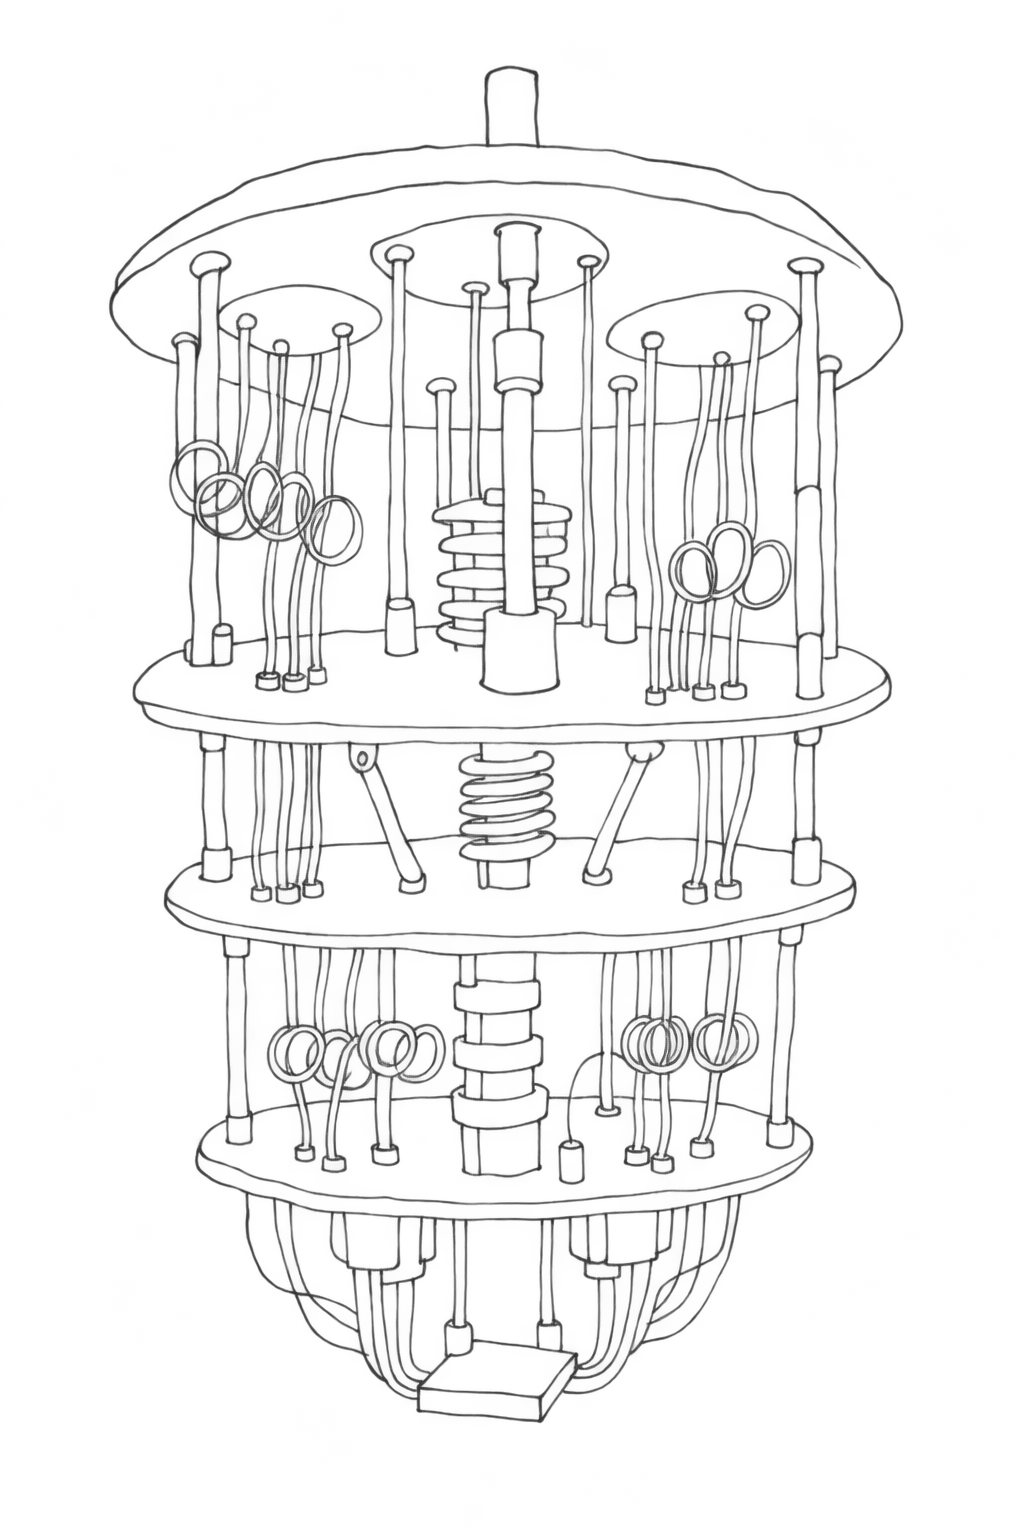
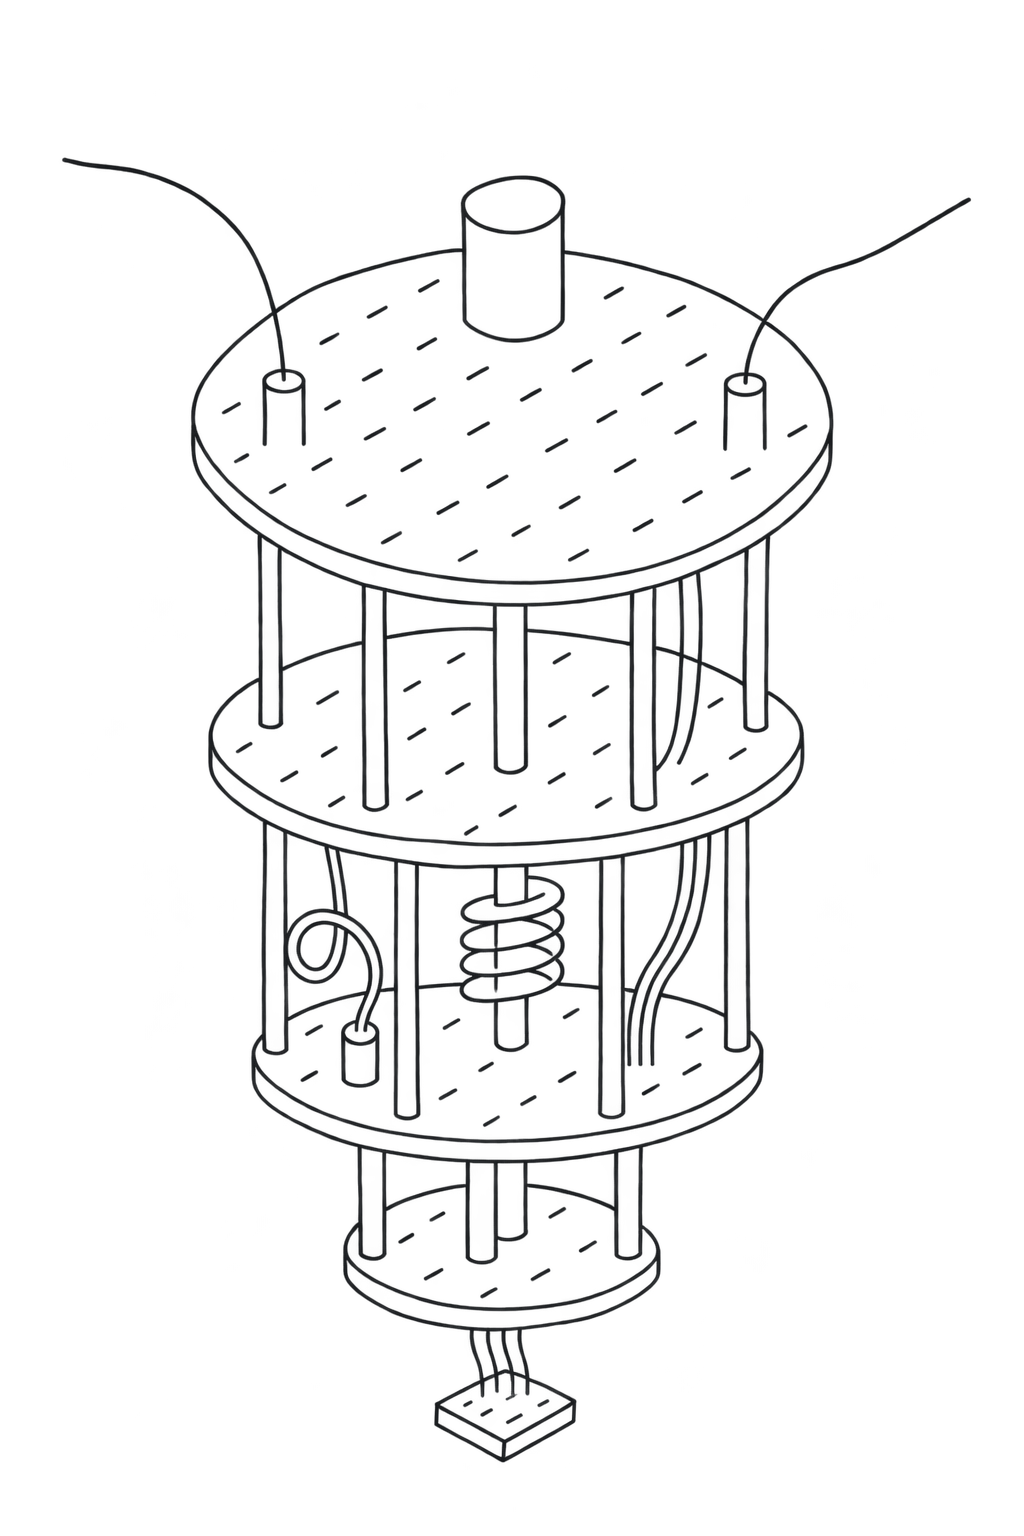
v3.1 block 4d: re-forged iso cryostat (raster), dash hatch vocabulary, rack fan lid

Changed region(s): [[0.0625, 0.0312, 0.875, 0.9688], [0.875, 0.125, 0.9375, 0.1562], [0.125, 0.4375, 0.1562, 0.4688]]

diff --git a/talks/quantum/v31/objects.js b/talks/quantum/v31/objects.js
@@ -92,15 +92,17 @@ export function reader(o) {
   for (let z = 60, i = 0; z < H - 70; z += i % 3 ? 45 : 70, i++) {
     P.line(F(26, z), F(U - 26, z));
     P.line(F(14, z + 6), F(14, z + 34)); P.line(F(U - 14, z + 6), F(U - 14, z + 34));
-    if (i % 2 === 0) for (let u = 50; u < 170; u += 30) P.line(F(u, z + 12), F(u, z + 30));
+    if (i % 2 === 0) for (let u = 50; u < 170; u += 34) P.line(F(u, z + 22), F(u + 20, z + 22));
     P.line(F(U - 70, z + 18), F(U - 46, z + 18));
   }
   // vents on the side face, near the top
-  for (let v = 60; v < V - 40; v += 40) for (let z = 80; z < H - 60; z += 110) P.line(iso(o, 0, v, z), iso(o, 0, v, z + 50));
+  for (let v = 60; v < V - 60; v += 56) for (let z = 90; z < H - 60; z += 70) P.line(iso(o, 0, v, z), iso(o, 0, v + 26, z));
   // top: inset lid, fan grilles, cable gland
   P.poly([[30, 30], [U - 30, 30], [U - 30, V - 30], [30, V - 30]].map(([u, v]) => iso(o, u, v, H)));
-  for (const [cu, cv] of [[100, 110], [100, 270], [210, 110]]) P.ellipse(iso(o, cu, cv, H), 110, 64);
-  for (let v = 60; v < V - 40; v += 50) P.line(iso(o, U, v, 40), iso(o, U, v, 120));
+  // one fan with blades and a dash grille
+  { const c = iso(o, 110, 130, H); P.ellipse(c, 130, 75); for (const a of [0, 1.57, 3.14, 4.71]) P.curve([c, [c[0] + Math.cos(a) * 30, c[1] + Math.sin(a) * 25], [c[0] + Math.cos(a + 0.6) * 55, c[1] + Math.sin(a + 0.6) * 30]]); }
+  for (let v = 230; v < V - 50; v += 30) for (let u = 60; u < U - 60; u += 50) P.line(iso(o, u, v, H), iso(o, u + 24, v, H));
+  
   // cable run leaving the top towards the film
   P.curve([iso(o, 60, 200, H), iso(o, 40, 260, H + 80), iso(o, -60, 320, H + 120), iso(o, -200, 360, H + 100)]);
   P.curve([iso(o, 80, 210, H), iso(o, 62, 274, H + 72), iso(o, -40, 336, H + 108), iso(o, -190, 380, H + 86)]);
@@ -114,10 +116,9 @@ export function readerOverview(o) { const P = pen('reader-ov'), U = 300, V = 380
 // cryostat overview: silhouette (top plate and can) + the three lower plates, measured on the forged image (source px, 1024 × 1536)
 export function cryoOverview() {
   const P = pen('cryo-ov');
-  P.ellipse([508, 285], 790, 150); P.line([500, 150], [500, 75]);
-  P.ellipse([512, 690], 755, 90); P.ellipse([510, 895], 690, 80); P.ellipse([505, 1150], 610, 70);
-  P.line([190, 330], [200, 1140]); P.line([830, 330], [815, 1140]);
-  P.curve([[260, 1190], [330, 1330], [440, 1410], [580, 1410], [680, 1330], [750, 1190]]);
+  P.ellipse([512, 420], 640, 330); P.ellipse([505, 745], 590, 150); P.ellipse([505, 1075], 510, 130); P.ellipse([500, 1270], 300, 90);
+  P.line([200, 440], [215, 745]); P.line([830, 440], [800, 745]); P.line([262, 790], [262, 1060]); P.line([752, 790], [752, 1060]);
+  P.line([465, 195], [465, 320]); P.line([565, 195], [565, 320]); P.line([370, 1110], [370, 1260]); P.line([640, 1110], [640, 1260]);
   return P.out;
 }
 export const countStrokes = (ds) => ds.reduce((a, d) => a + (d.d || d).split(/(?=M)/).length, 0);
